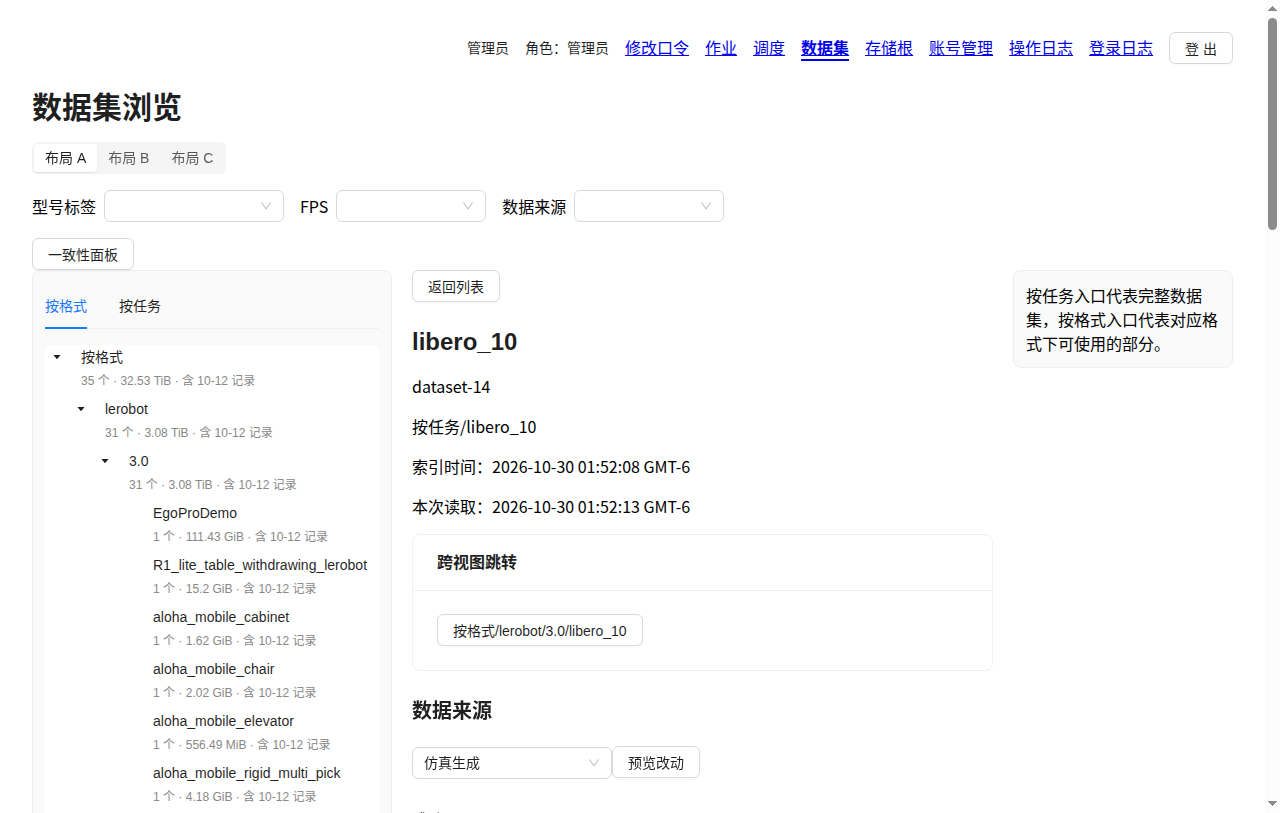
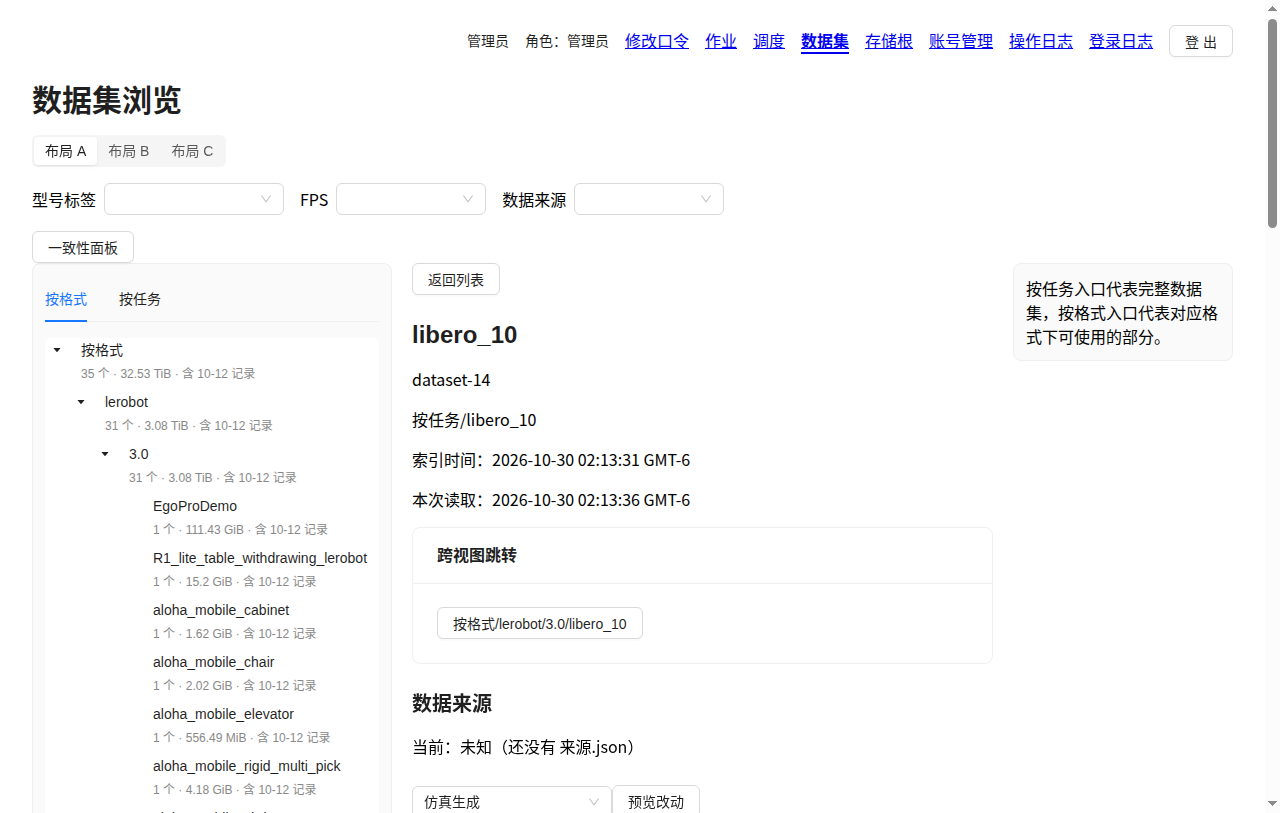
工单：M1 第 10 张验收

diff --git a/.scratch/m1-datasets/issues/10-data-origin-labeling.md b/.scratch/m1-datasets/issues/10-data-origin-labeling.md
@@ -1,6 +1,6 @@
 # 数据来源标注
 
-Status: in-progress
+Status: done
 
 分级：直做。理由：在第 07 张的写入底座上加一种只改 `来源.json` 的小作业，再加一个页面部件。`来源.json` 的格式和写入规则在第 07 张的骨架关卡定，本票不新增契约（3.0 第 1 条）。如果做的时候发现要改 `来源.json` 的格式，就升为骨架关卡。
 
@@ -83,3 +83,4 @@ Status: in-progress
 - 2026-10-30 00:16 派工 B（Codex gpt-6.1-sol high，新会话 `01a18b73-1cd8-7193-971c-ef5d93728820`，提示 `assets/10-data-origin-labeling/prompt-B.md`），分两段交：后端交检查点后，执行线做副本演练，然后做前端。
 - 2026-10-30 01:02 后端检查点交回（快照 `refs/rdp/m1-10/B-out1`），日志审计 0 条，Codex 自报 make check 全绿（2481 passed；前端 3 项按要求保留跳过）。navwrite 已有的文件一行没改，只新增模块；改了的共用文件：api/__init__、registry、datasets/{reading,types,_index_write,models}、dataset_browser/{queries,schemas}。新作业 `nav_data_origin_preview`、`EntrySnapshot.data_origin`、迁移 0011（数据来源 CHECK 加 5 个编码），都是只加不改，批准。来源印记的语义（预览提交人加生成预览的 UTC 秒；确认人另记在变更记录和操作日志里）接受。**副本演练**（`origin-drill.sh` → `origin-drill-run.log`；第一次执行线忘了构建 dist，Web 没起来，脚本已改成自己构建）：真实导航层复制到 ~/.cache/rdp-drill/m1-10，在副本上把 dataset-14（libero_10）的来源改成"开源下载"：预览作业 5 → 写入作业 6 completed，生成 `按任务/libero_10/来源.json`（schema_version 1，data_origin_set_by 是管理员人工标注），按格式入口不写来源.json；按 open_source 筛出 1 条，筛选计数更新。撤回：撤回预览 8 → 写入 9 completed，来源.json 删除，筛选回到 0。操作日志有管理员 set_data_origin 6 和 revert_change 9，nav-changes 下有 6、9 两份记录。/mnt/datasets 清单逐字节相同，两块盘写入扇区数不变，worker.log 没有 ERROR。派第二段（前端）。
 - 2026-10-30 01:53 前端交回，日志审计 0 条，Codex 自报 make check 全绿（2481 passed，Vitest 327），主入口 50.45 kB。**浏览器演练**（`origin-browser-drill.sh`、`.mjs` → `origin-browser-drill-run.log`、`drill/m110-*.png`，在副本上做）：libero_10 选"仿真生成"→ 预览差异显示"按任务/libero_10/来源.json 未知 → 仿真生成"→ 确认 → 作业 6 completed → 按 simulation 筛出 libero_10。1280×900 下没有横向溢出；/mnt 和两块盘都没有写入。**打回第 1 轮**：详情页的来源区域看不到当前来源是什么（只有占位符），要显示当前来源、谁在什么时候标的；选择框默认选中当前值，选成同一个值时不能预览。
+- 2026-10-30 02:16 第 1 轮交回，日志审计 0 条：详情响应加了只读的 `provenance`，区域里显示"当前：<来源>"、标注人和时间；选择框默认选中当前值，选成同一个值时禁用并提示"和当前一样"；Codex 自己做了变异抽查，2 处都被发现。执行线重跑浏览器演练（`origin-browser-drill-run.log`、`drill/m110-*.png`）：写入后详情显示"当前：仿真生成 标注人：管理员；标注时间：2026-10-30 02:13:40 GMT-6"，按钮提示"和当前一样"；按 simulation 筛出 libero_10；没有横向溢出；/mnt 和两块盘都没有写入；worker.log 没有 ERROR。验收全部满足，按负责人授权合并。

diff --git a/.scratch/m1-datasets/assets/10-data-origin-labeling/out-r1.md b/.scratch/m1-datasets/assets/10-data-origin-labeling/out-r1.md
@@ -1,0 +1,19 @@
+**改动清单**
+
+- 详情响应新增只读 `provenance`，从规范入口读取当前来源、标注人和时间；两种视图显示一致。
+- 未标注显示“当前：未知（还没有 来源.json）”；已标注显示来源、姓名和 `formatDateTime` 时间。
+- 选择框默认选中当前来源；相同值禁用预览并提示“和当前一样”。
+- 四项新增回归均先红后绿，并补强写入完成后返回详情的断言；两项变异均被抓住。
+- 已运行 `make api-types`。未暂存、未提交。
+
+**检查汇总**
+
+`make check` 全绿，**0 skipped**：
+
+```text
+2483 passed, 8 warnings in 91.74s (0:01:31)
+Test Files  34 passed (34)
+     Tests  329 passed (329)
+```
+
+`vite build` 成功，主入口 **50.45 kB < 500 kB**。`dist` 和本轮临时文件已删除。
